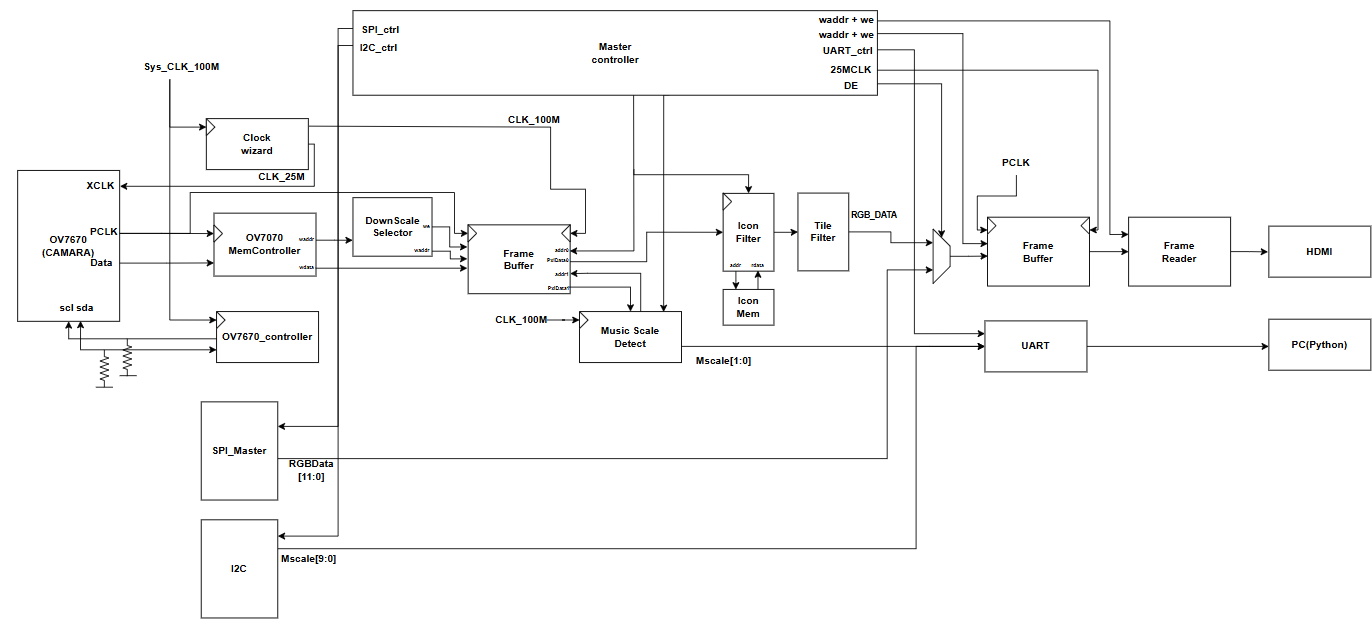
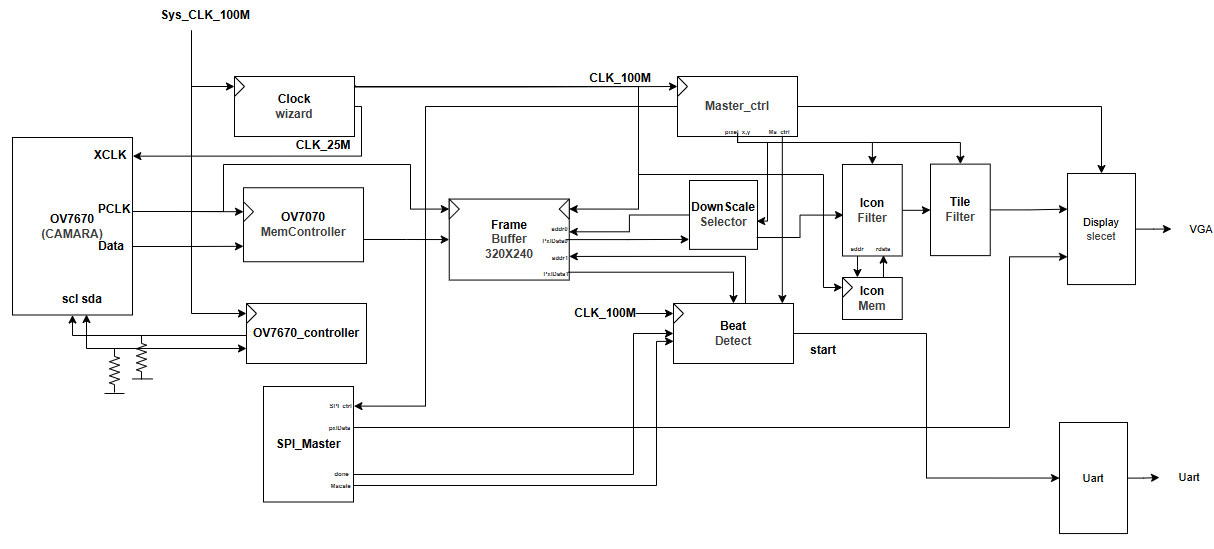
Modify_Master_Readme

diff --git a/README.md b/README.md
@@ -8,5 +8,3 @@
 ## SLave
 
 ![Slave Block Diagram](./readme_src/Slave_bd.png)
-
-![LinBufferCtrl FSM](./readme_src/Slave_ctrl_fsm.png)